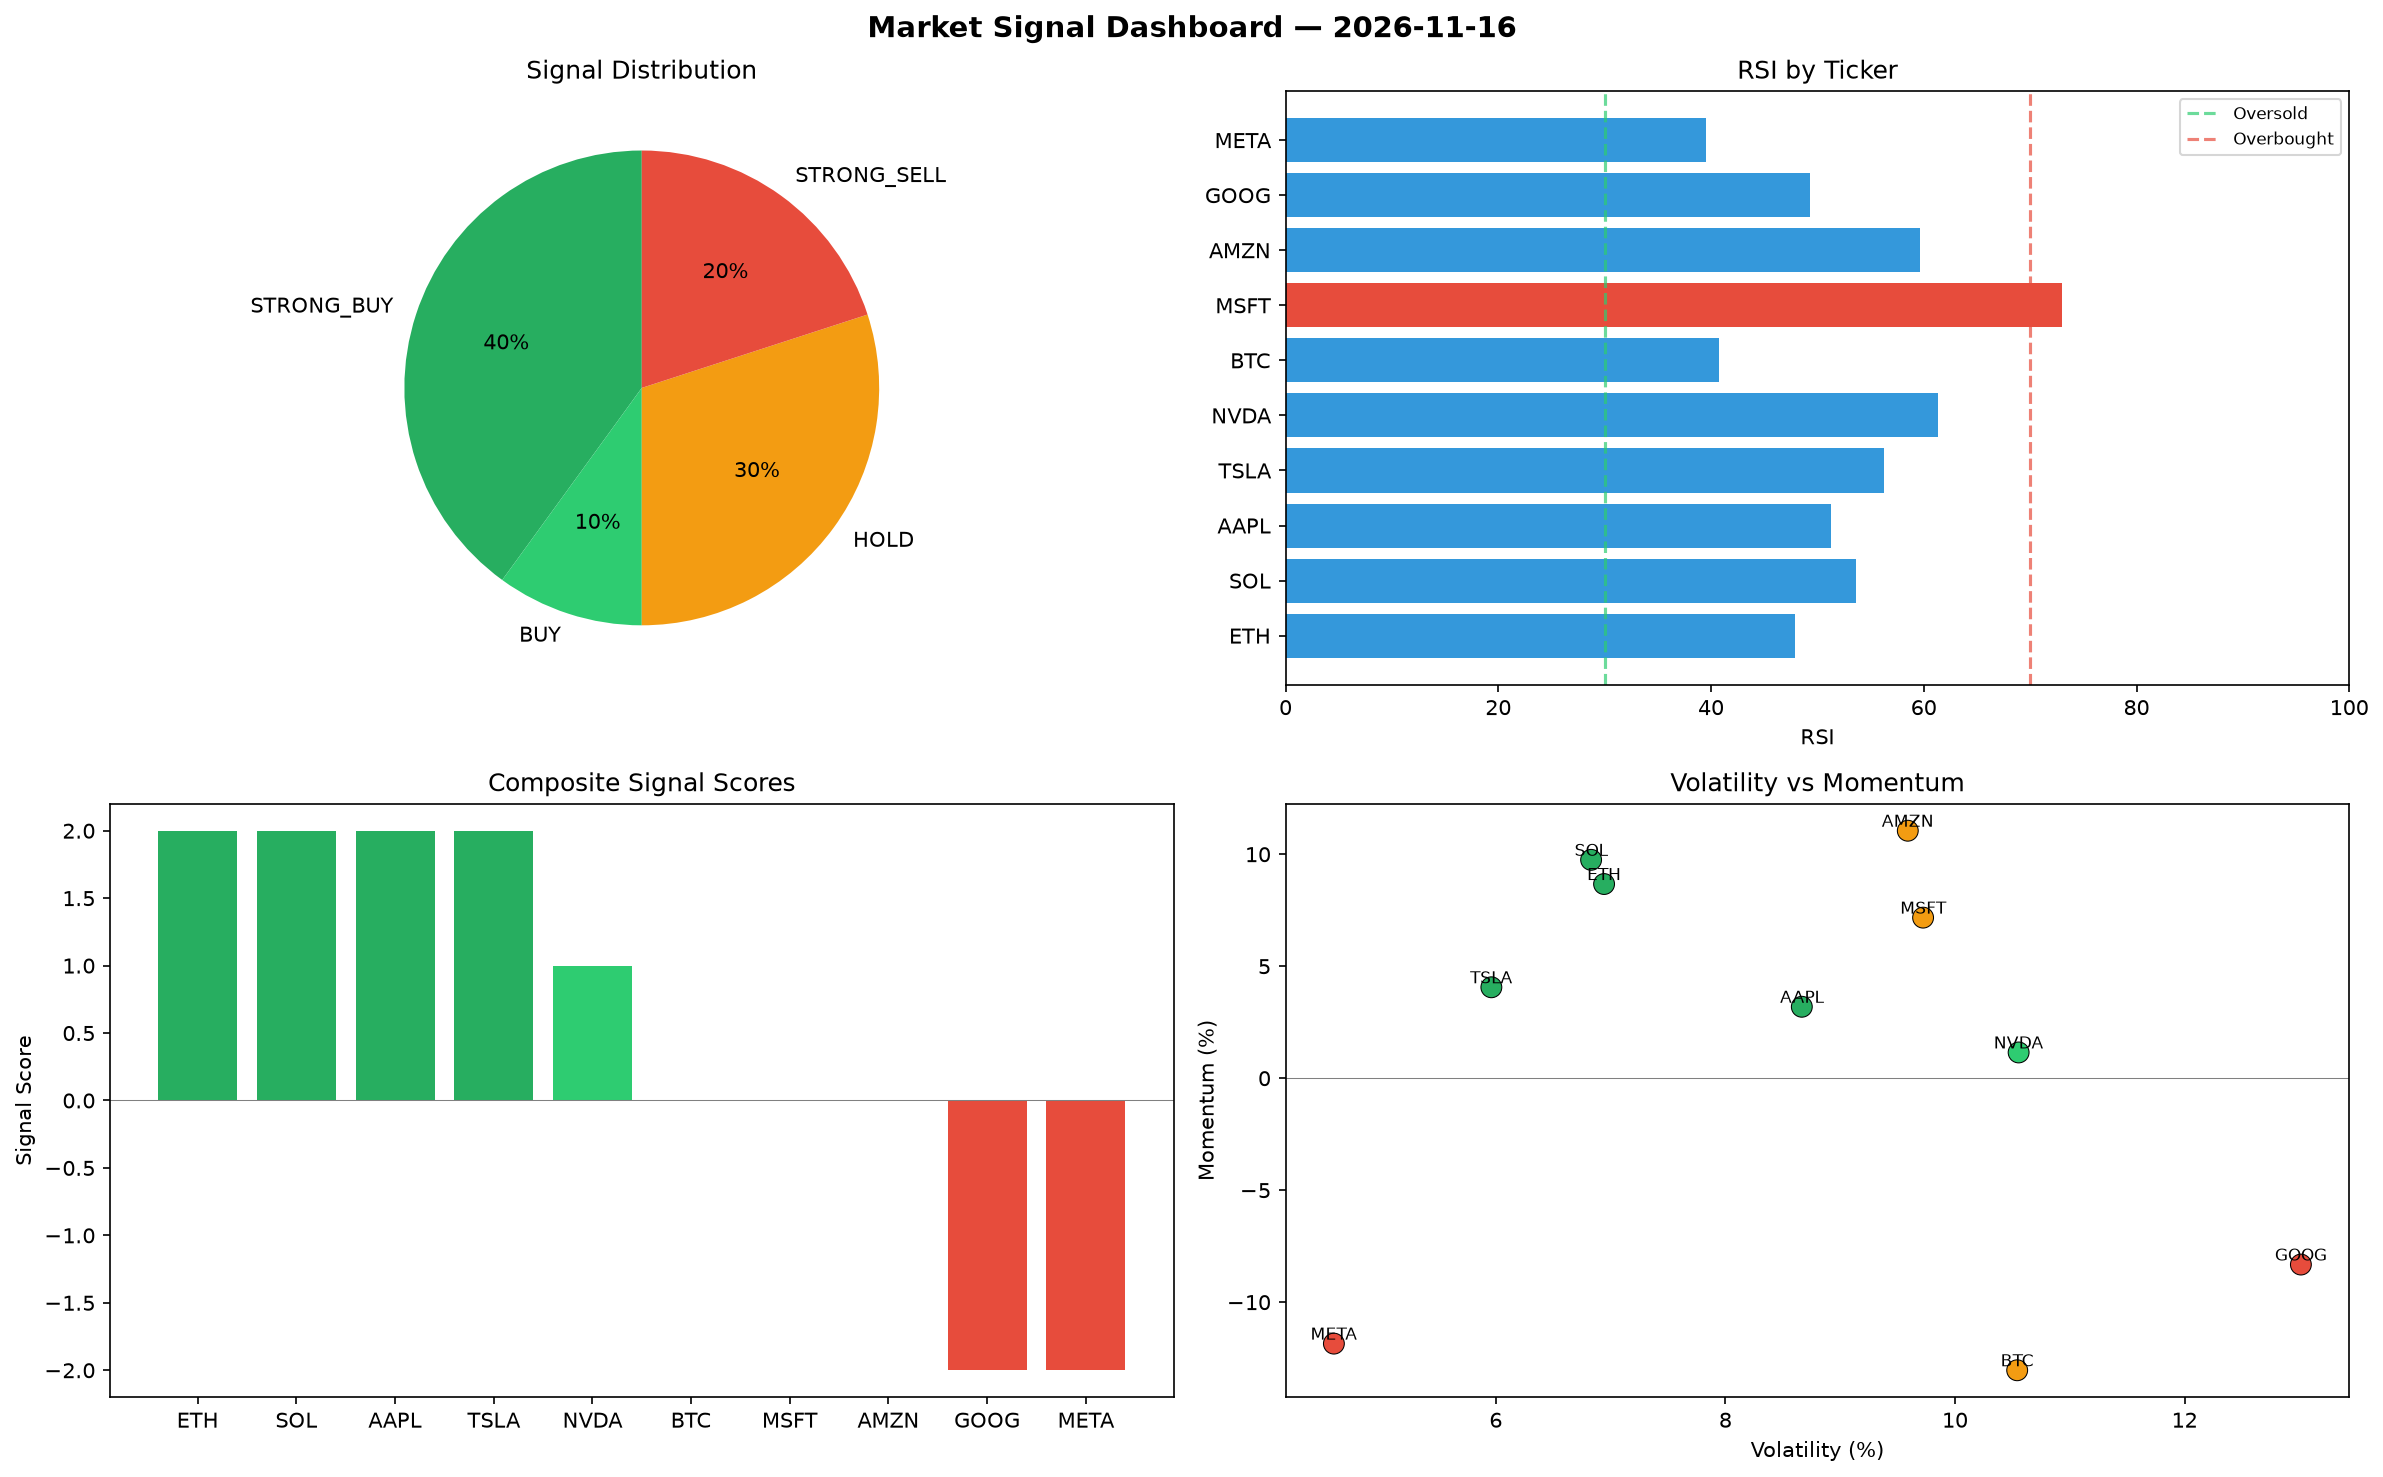
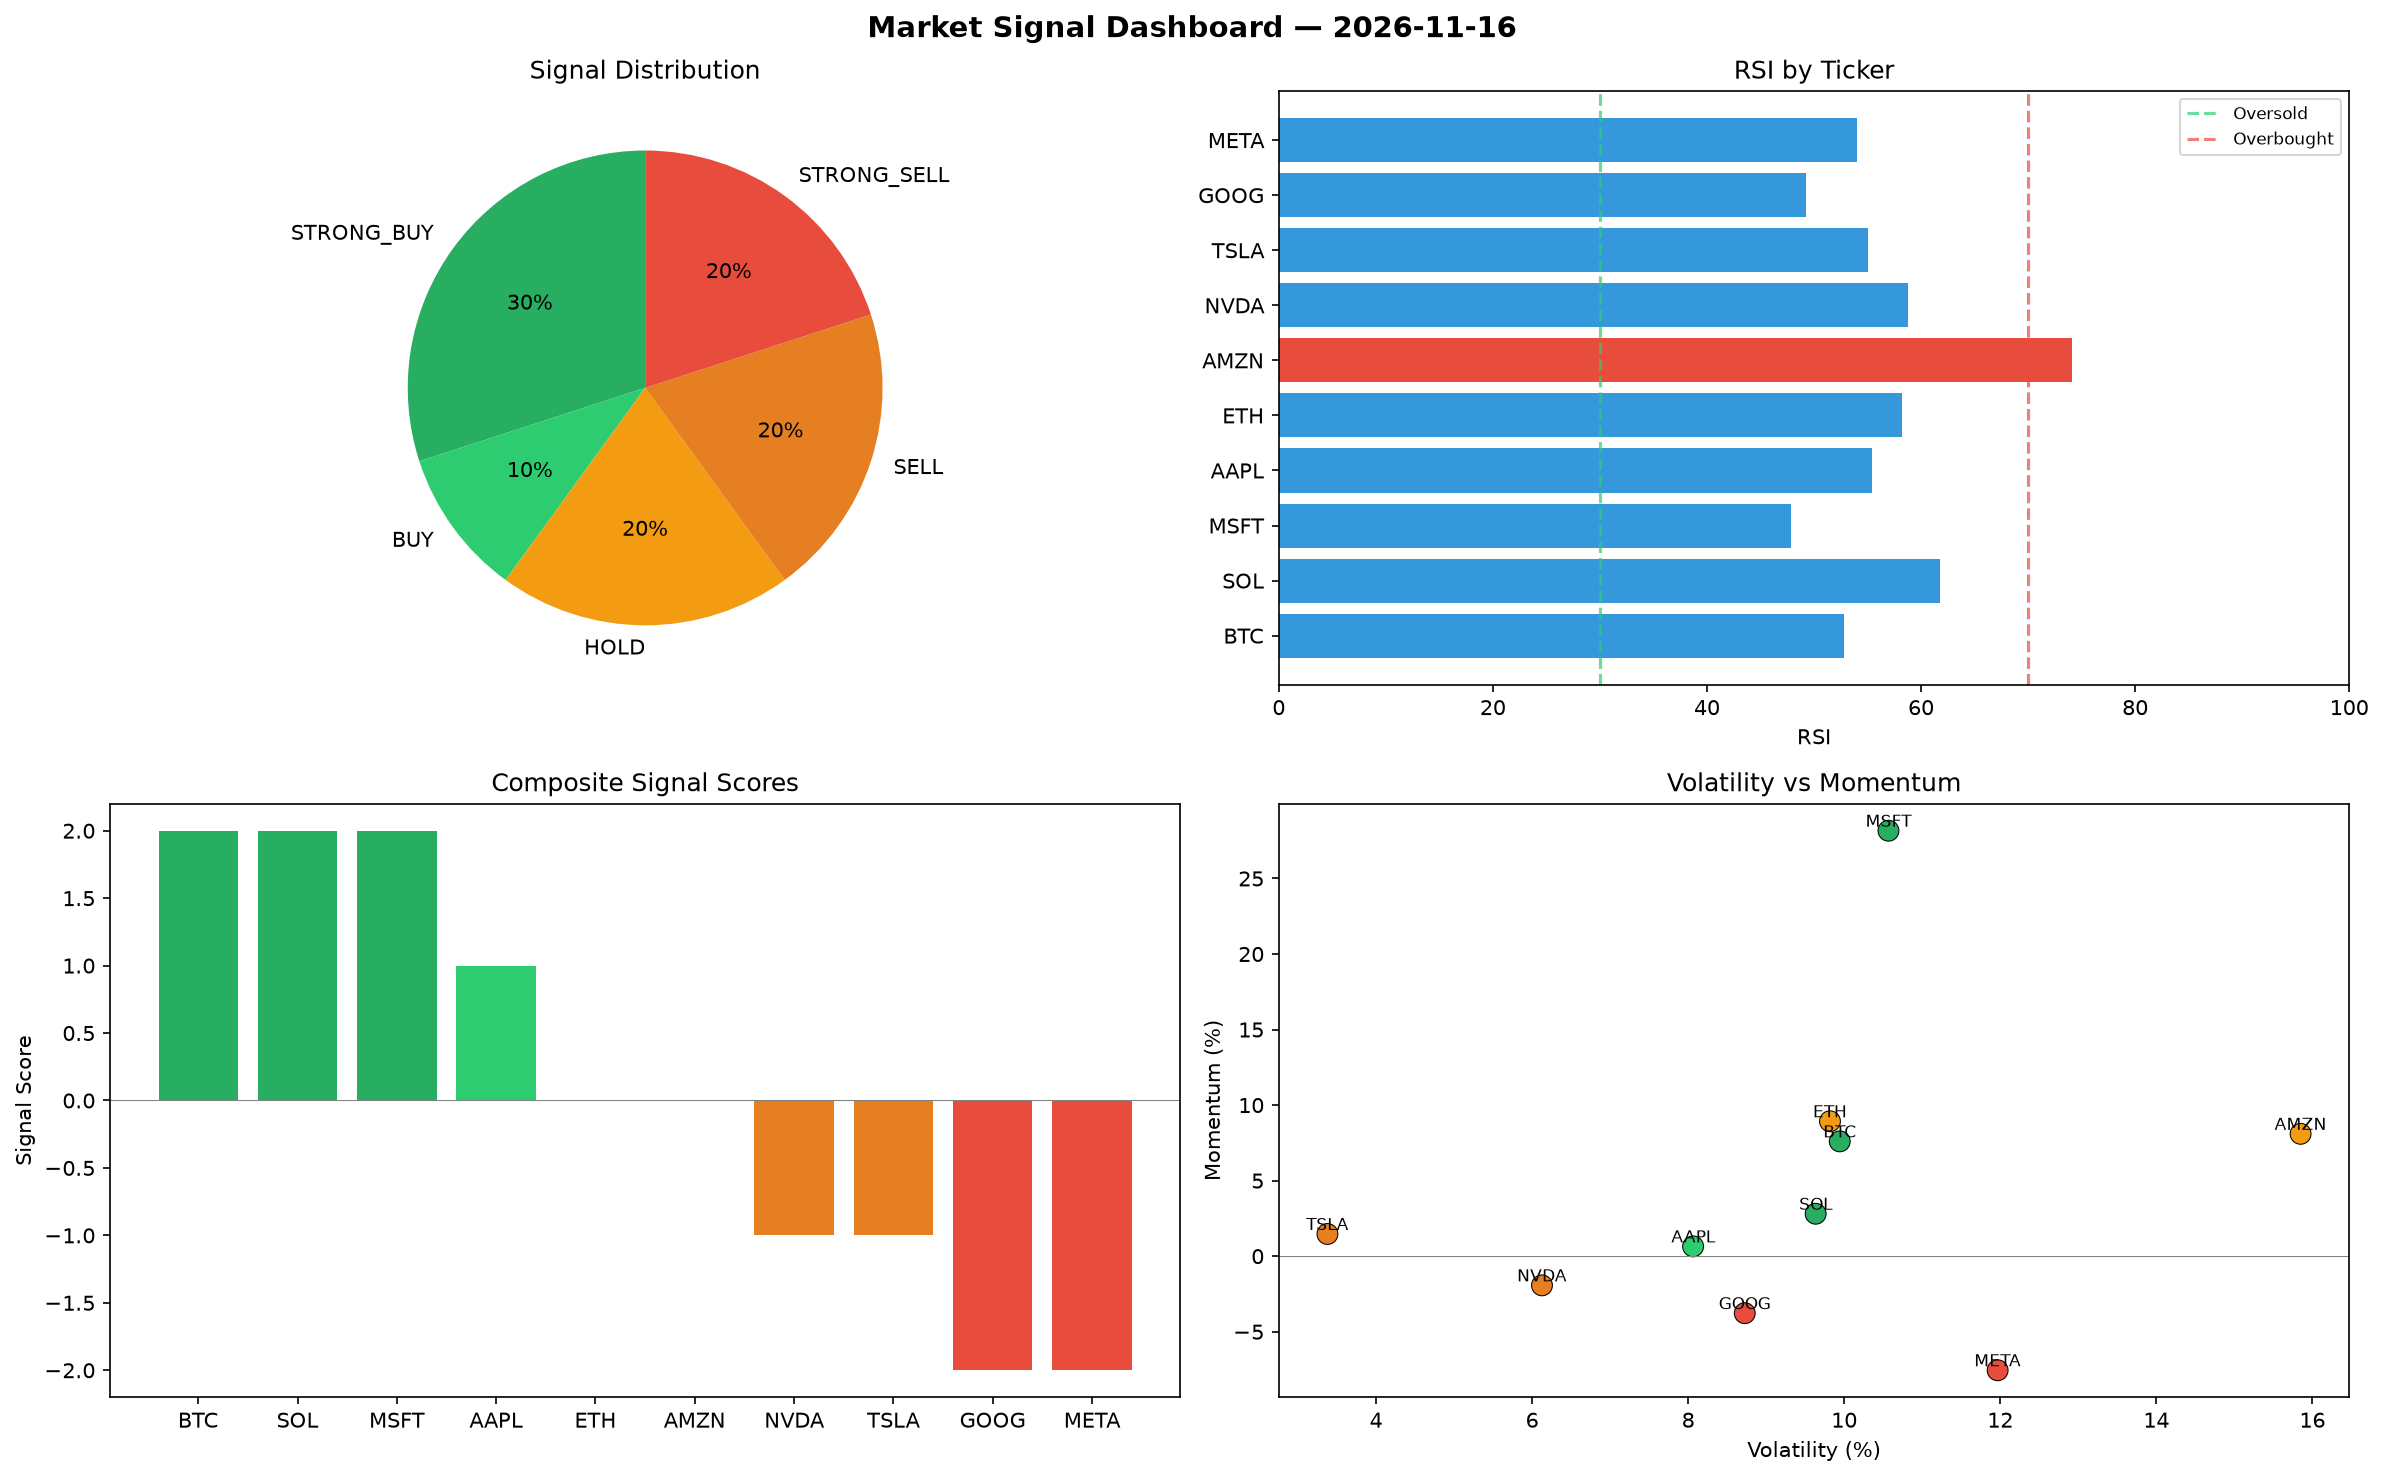
automated-bots: market signals 2026-11-16T23:27

diff --git a/logs/2026-11-16.md b/logs/2026-11-16.md
@@ -1,6 +1,6 @@
 # Market Signal Report — 2026-11-16
 
-**Run ID:** `c8779cc575` | **Buy:** 5 | **Sell:** 2 | **Hold:** 3
+**Run ID:** `c46d714938` | **Buy:** 4 | **Sell:** 4 | **Hold:** 2
 
 ![Dashboard](2026-11-16_dashboard.png)
 
@@ -8,28 +8,28 @@
 
 | Ticker | Price | Signal | Score | RSI | Momentum | Confidence |
 |--------|-------|--------|-------|-----|----------|------------|
-| ETH | $1369.39 | **STRONG_BUY** | 2 | 47.88 | 0.0867 | 0.5 |
-| SOL | $2311.04 | **STRONG_BUY** | 2 | 53.63 | 0.0975 | 0.5 |
-| AAPL | $2434.11 | **STRONG_BUY** | 2 | 51.28 | 0.0319 | 0.5 |
-| TSLA | $1566.84 | **STRONG_BUY** | 2 | 56.28 | 0.0406 | 0.5 |
-| NVDA | $4604.98 | **BUY** | 1 | 61.33 | 0.0115 | 0.25 |
-| BTC | $3241.1 | **HOLD** | 0 | 40.71 | -0.1304 | 0.0 |
-| MSFT | $3671.69 | **HOLD** | 0 | 72.99 | 0.0717 | 0.0 |
-| AMZN | $3592.38 | **HOLD** | 0 | 59.62 | 0.1105 | 0.0 |
-| GOOG | $3431.44 | **STRONG_SELL** | -2 | 49.3 | -0.0832 | 0.5 |
-| META | $4142.73 | **STRONG_SELL** | -2 | 39.57 | -0.1185 | 0.5 |
+| BTC | $4027.0 | **STRONG_BUY** | 2 | 52.81 | 0.076 | 0.5 |
+| SOL | $661.85 | **STRONG_BUY** | 2 | 61.73 | 0.0281 | 0.5 |
+| MSFT | $1139.34 | **STRONG_BUY** | 2 | 47.82 | 0.2816 | 0.5 |
+| AAPL | $2397.71 | **BUY** | 1 | 55.38 | 0.0065 | 0.25 |
+| ETH | $3989.1 | **HOLD** | 0 | 58.24 | 0.0893 | 0.0 |
+| AMZN | $2615.91 | **HOLD** | 0 | 74.13 | 0.081 | 0.0 |
+| NVDA | $1156.29 | **SELL** | -1 | 58.79 | -0.0193 | 0.25 |
+| TSLA | $1504.36 | **SELL** | -1 | 55.08 | 0.0147 | 0.25 |
+| GOOG | $1113.03 | **STRONG_SELL** | -2 | 49.21 | -0.0377 | 0.5 |
+| META | $297.88 | **STRONG_SELL** | -2 | 54.02 | -0.0755 | 0.5 |
 
 ## Delta vs Yesterday
 
 | Ticker | Today | Yesterday | Price Change | Signal Changed |
 |--------|-------|-----------|-------------|----------------|
-| ETH | STRONG_BUY | HOLD | 📈 7230.78% | ⚠ YES |
-| SOL | STRONG_BUY | HOLD | 📈 38.6% | ⚠ YES |
-| AAPL | STRONG_BUY | STRONG_SELL | 📈 84.79% | ⚠ YES |
-| TSLA | STRONG_BUY | STRONG_SELL | 📉 -45.04% | ⚠ YES |
-| NVDA | BUY | STRONG_BUY | 📉 -16.34% | ⚠ YES |
-| BTC | HOLD | STRONG_SELL | 📈 889.62% | ⚠ YES |
-| MSFT | HOLD | STRONG_SELL | 📈 8.2% | ⚠ YES |
-| AMZN | HOLD | BUY | 📉 -0.43% | ⚠ YES |
-| GOOG | STRONG_SELL | BUY | 📈 78.8% | ⚠ YES |
-| META | STRONG_SELL | STRONG_SELL | 📈 58.13% | — |
+| BTC | STRONG_BUY | STRONG_SELL | 📈 1129.58% | ⚠ YES |
+| SOL | STRONG_BUY | HOLD | 📉 -60.31% | ⚠ YES |
+| MSFT | STRONG_BUY | STRONG_SELL | 📉 -66.42% | ⚠ YES |
+| AAPL | BUY | STRONG_SELL | 📈 82.03% | ⚠ YES |
+| ETH | HOLD | HOLD | 📈 21254.93% | — |
+| AMZN | HOLD | BUY | 📉 -27.5% | ⚠ YES |
+| NVDA | SELL | STRONG_BUY | 📉 -78.99% | ⚠ YES |
+| TSLA | SELL | STRONG_SELL | 📉 -47.23% | ⚠ YES |
+| GOOG | STRONG_SELL | BUY | 📉 -42.0% | ⚠ YES |
+| META | STRONG_SELL | STRONG_SELL | 📉 -88.63% | — |
